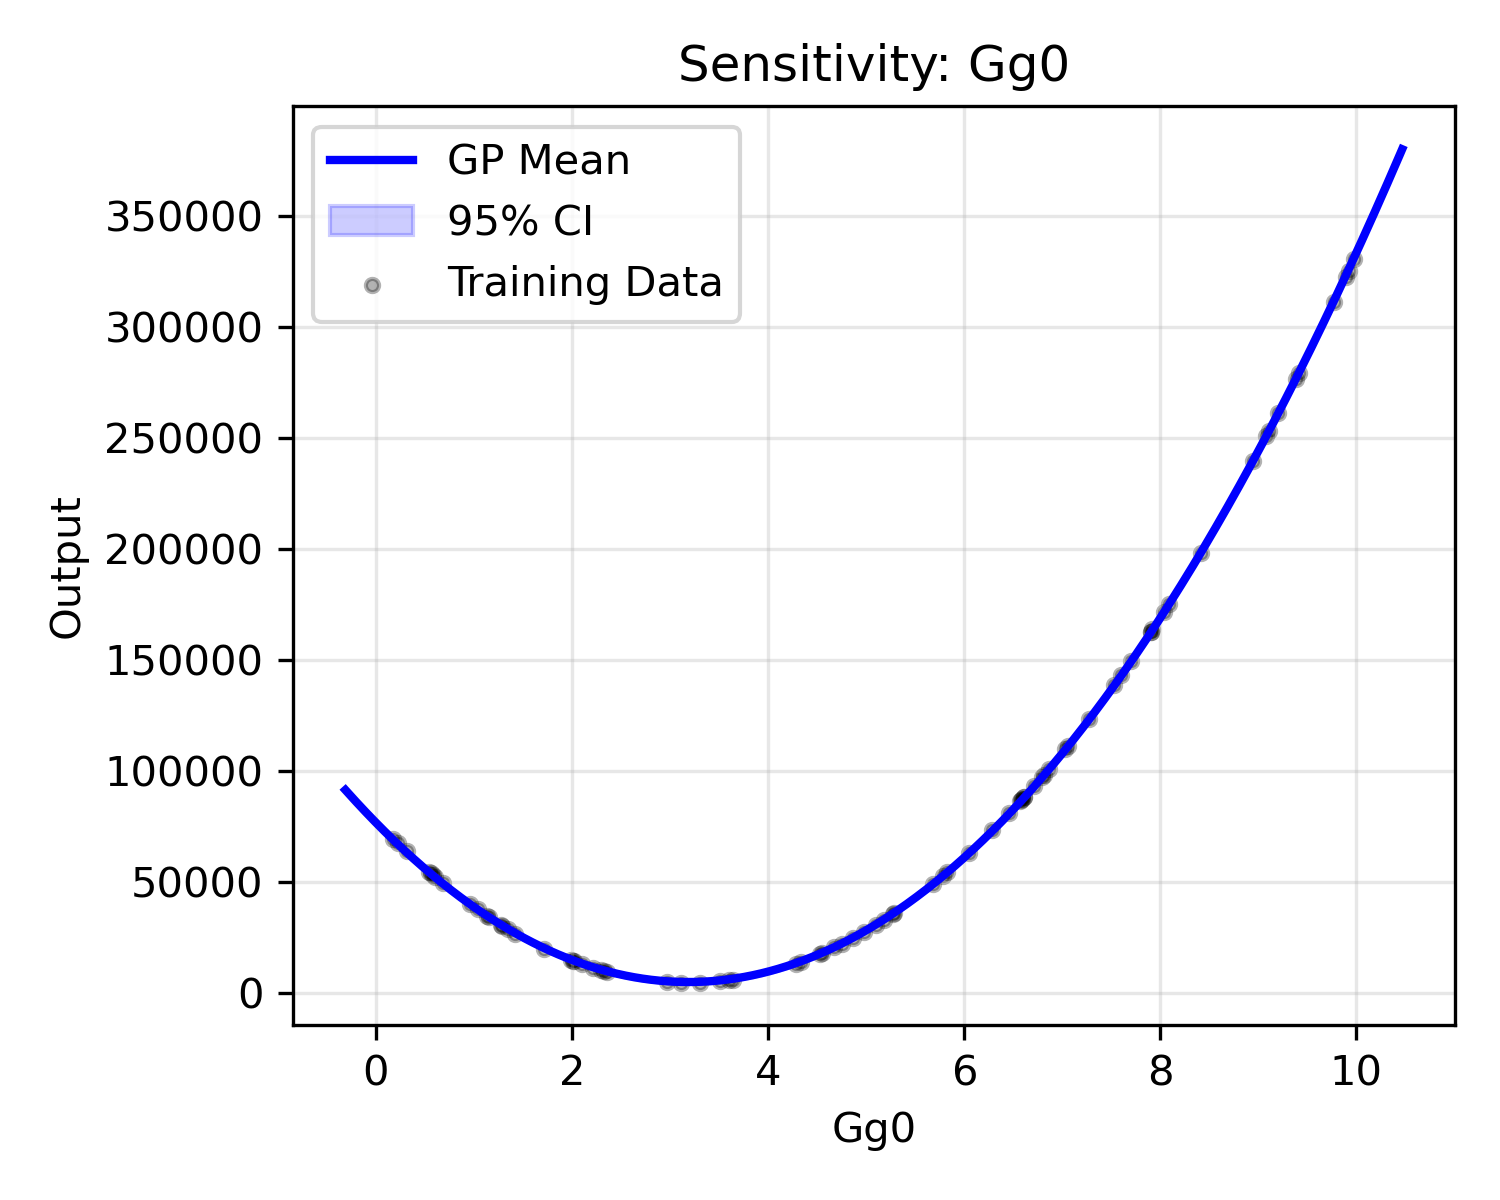
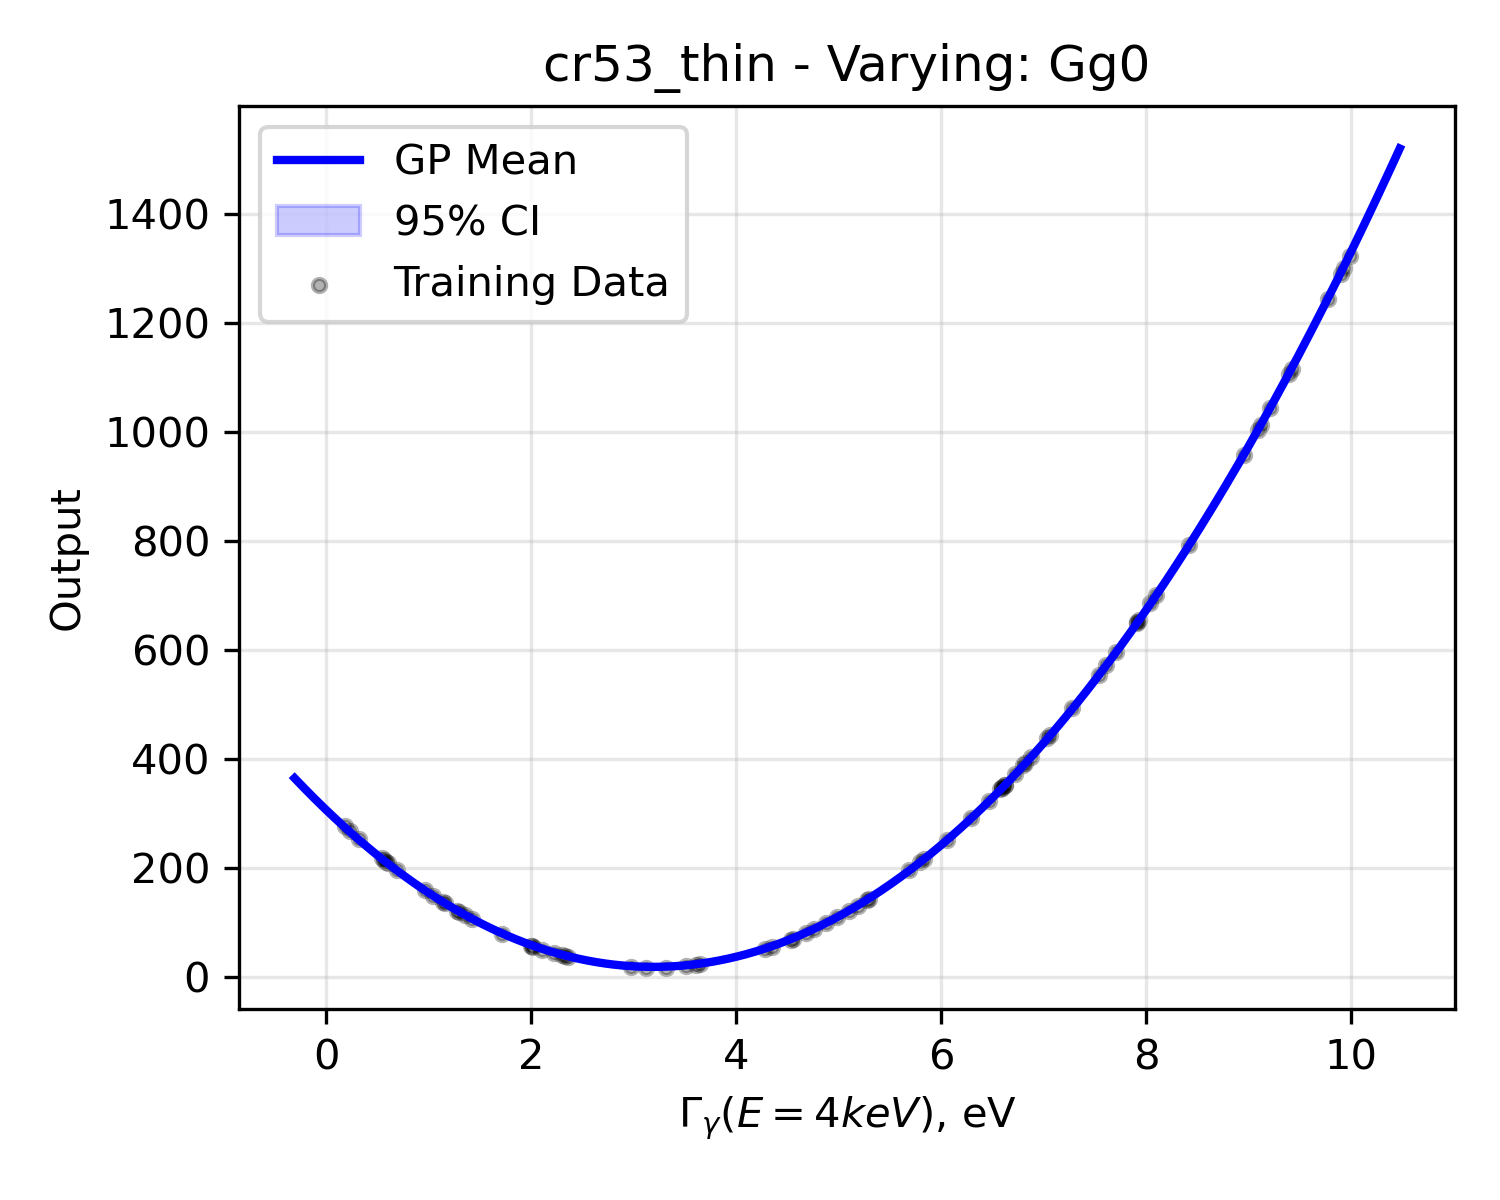
plot layout changes

diff --git a/mcmc_inference/03_mcmc_plots.py b/mcmc_inference/03_mcmc_plots.py
@@ -135,8 +135,8 @@ def output_scatter_plot(exp, prior, posterior, save_path):
     )
 
     ax.axhspan(exp.y_meas-2*exp.y_err, exp.y_meas+2*exp.y_err, 
-           facecolor='C0',
-           alpha=0.2,
+        facecolor='C0',
+        alpha=0.2,
     )
 
     ax.plot(
@@ -162,6 +162,7 @@ def output_scatter_plot(exp, prior, posterior, save_path):
         title=f"{exp.id}",
         xlabel=r"$\Gamma_\gamma(E=4 keV)$, eV",
         ylabel=r"$k_{\text{eff}}$" if exp.type == 'integral' else r"$\chi^2$",
+        ylim=(0,None) if exp.type == 'microscopic' else None,
     )
     ax.legend()
     fig.savefig(save_path, dpi=300)
@@ -186,6 +187,7 @@ def output_pdf_plot(exp, prior, posterior, save_path):
         alpha=0.5,
         label='Prior Samples'
     )
+
     ax.hist(
         exp.gp.predict(posterior),
         bins=30,
@@ -199,6 +201,7 @@ def output_pdf_plot(exp, prior, posterior, save_path):
         xlabel=r"$k_{\text{eff}}$" if exp.type == 'integral' else r"$\chi^2$",
         ylabel="Density",
     )
+
     ax.legend()
     fig.savefig(save_path, dpi=300)
 
@@ -224,8 +227,6 @@ def plot_mcmc_results(config_path):
     param_names = list(idata.posterior.data_vars.keys())
     n_params = len(param_names)
     print(f"Parameters found: {param_names}")
-
-    # 3. Prepare Data for Plots
 
     # 3. Initialize Evaluators for each Experiment
     models = []
@@ -269,16 +270,7 @@ def plot_mcmc_results(config_path):
 
     # collect parameter columns and build a (nsamples, n_params) array
     param_arrays = [posterior_stacked[param].values.reshape(-1) for param in param_names]
-    posterior_all = np.vstack(param_arrays).T  # shape: (nsamples_total, n_params)
-
-    # match the number of posterior samples to prior samples (n_prior_samples)
-    n_post_needed = prior_X_samples.shape[0]
-    if posterior_all.shape[0] >= n_post_needed:
-        idx = np.random.choice(posterior_all.shape[0], size=n_post_needed, replace=False)
-    else:
-        idx = np.random.choice(posterior_all.shape[0], size=n_post_needed, replace=True)
-    posterior_X_samples = posterior_all[idx]
-
+    posterior_X_samples = np.vstack(param_arrays).T  # shape: (nsamples_total, n_params)
     
     # ---------------------------------------------------------
     # Plot 1: Trace Plot (Convergence Check)
@@ -289,14 +281,14 @@ def plot_mcmc_results(config_path):
     # ---------------------------------------------------------
     # Plot 2: Corner Plot (Posterior Correlations)
     # ---------------------------------------------------------
-    # print("Generating Corner Plot...")
-    # corner_plot(idata, os.path.join(figures_dir, "corner_plot.png"))
+    print("Generating Corner Plot...")
+    corner_plot(idata, os.path.join(figures_dir, "corner_plot.png"))
 
     # ---------------------------------------------------------
     # Plot 3: Forest Plot (Summary of intervals)
     # ---------------------------------------------------------
-    # print("Generating Forest Plot...")
-    # forest_plot(idata, os.path.join(figures_dir, "forest_plot.png"))
+    print("Generating Forest Plot...")
+    forest_plot(idata, os.path.join(figures_dir, "forest_plot.png"))
 
     # ---------------------------------------------------------
     # 4. Plot prior and posterior input responses
@@ -327,12 +319,11 @@ def plot_mcmc_results(config_path):
     # 5. Save Text Summary
     # ---------------------------------------------------------
     print("Generating Summary Table...")
-    # This calculates Mean, SD, hdi_3%, hdi_97%, and R_hat
     summary_df = az.summary(idata, hdi_prob=0.95)
     
     summary_path = os.path.join("reports", "posterior_summary.csv")
     summary_df.to_csv(summary_path)
-    
+
     print("\n--- Calibration Results ---")
     print(summary_df[['mean', 'sd', 'r_hat']])
     print(f"Full summary saved to {summary_path}")

diff --git a/scripts/run_complete.py b/scripts/run_complete.py
@@ -1,0 +1,75 @@
+import subprocess
+import argparse
+import os
+import sys
+
+MODULE_SEQUENCE = [
+    # "mcmc_inference.01_gp_train",
+    "mcmc_inference.02_mcmc",
+    "mcmc_inference.03_mcmc_plots"
+]
+
+def run_step(module_name, config_path):
+    """Executes a single Python module using subprocess."""
+    
+    command = [
+        sys.executable, 
+        "-m", 
+        module_name, 
+        "--config", 
+        config_path
+    ]
+    
+    print(f"\n====> STARTING STEP: {module_name}")
+    try:
+        subprocess.run(command, check=True)
+        print(f"----> SUCCESS: {module_name}")
+        return True
+    except subprocess.CalledProcessError as e:
+        print(f"\n!!!! FAILURE: {module_name} failed with exit code {e.returncode}")
+        print("!!!! Check logs above for specific error details.")
+        return False
+    except FileNotFoundError:
+        print(f"\n!!!! FAILURE: Python environment error. Could not find module {module_name}")
+        return False
+
+def run_daan_workflow(config_path):
+    """Runs the entire DAAN workflow sequentially."""
+    
+    header_text = rf"""
+==================================================
+
+__/\\\\\\\\\\\\________________________________________________        
+ _\/\\\////////\\\______________________________________________       
+  _\/\\\______\//\\\_____________________________________________      
+   _\/\\\_______\/\\\__/\\\\\\\\\_____/\\\\\\\\\_____/\\/\\\\\\___     
+    _\/\\\_______\/\\\_\////////\\\___\////////\\\___\/\\\////\\\__    
+     _\/\\\_______\/\\\___/\\\\\\\\\\____/\\\\\\\\\\__\/\\\__\//\\\_   
+      _\/\\\_______/\\\___/\\\/////\\\___/\\\/////\\\__\/\\\___\/\\\_  
+       _\/\\\\\\\\\\\\/___\//\\\\\\\\/\\_\//\\\\\\\\/\\_\/\\\___\/\\\_ 
+        _\////////////______\////////\//___\////////\//__\///____\///__
+        
+==================================================        
+  Project Config: {config_path}
+  Running Steps:  {len(MODULE_SEQUENCE)}
+  Current Time:   {os.popen('date /t').read().strip()} {os.popen('time /t').read().strip()}
+--------------------------------------------------
+"""
+    print(header_text)
+    
+    for module in MODULE_SEQUENCE:
+        if not run_step(module, config_path):
+            print("\nWORKFLOW ABORTED due to failure in the previous step.")
+            return
+
+    print("\n==================================================")
+    print("WORKFLOW COMPLETED SUCCESSFULLY.")
+    print("Posterior samples and plots are ready for analysis.")
+    print("==================================================")
+
+if __name__ == "__main__":
+    parser = argparse.ArgumentParser(description="DAAN: Automated GP and MCMC Inference Workflow.")
+    parser.add_argument("--config", type=str, default="configs/config.yaml", help="Path to the configuration file.")
+    args = parser.parse_args()
+    
+    run_daan_workflow(args.config)

diff --git a/mcmc_inference/01_gp_train.py b/mcmc_inference/01_gp_train.py
@@ -117,8 +117,8 @@ def plot_gp_slices(gp, X_train, y_train, feature_names, save_dir, exp_id):
         # Overlay Training Data (Projected onto this dimension)
         ax.scatter(X_train[:, i], y_train, c='k', s=10, alpha=0.3, label='Training Data')
         
-        ax.set_title(f"Sensitivity: {fname}")
-        ax.set_xlabel(fname)
+        ax.set_title(exp_id + f" - Varying: {fname}")
+        ax.set_xlabel(r"$\Gamma_\gamma(E=4 keV)$, eV")
         ax.set_ylabel("Output")
         ax.grid(True, alpha=0.3)
         if i == 0: ax.legend()
